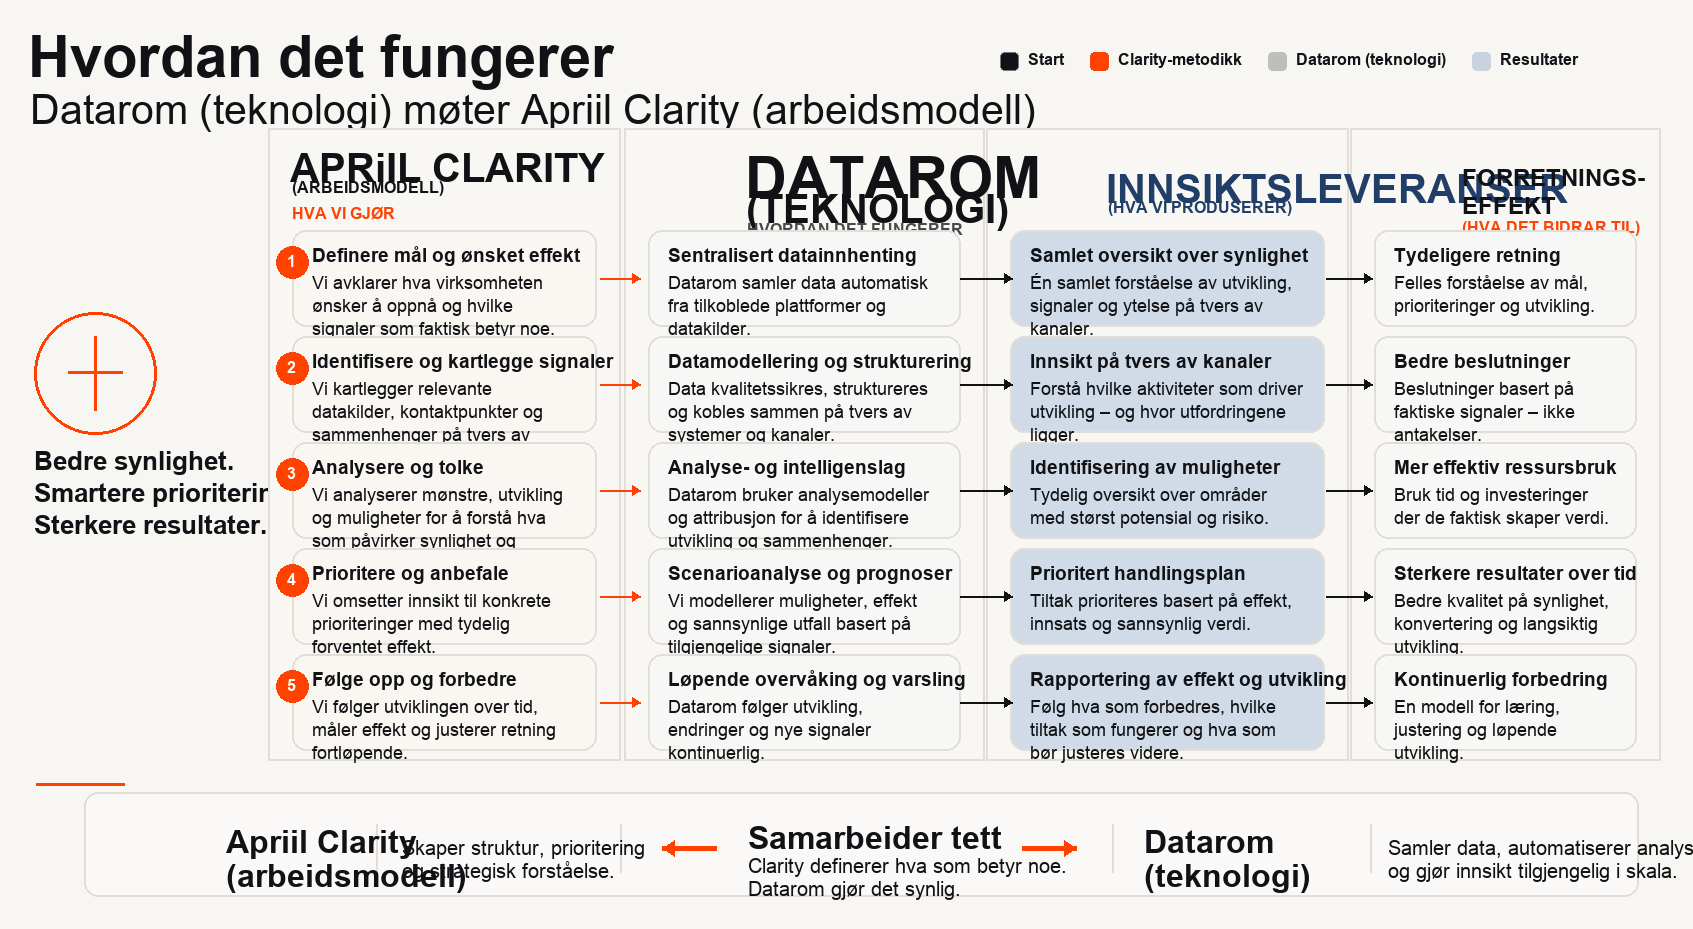
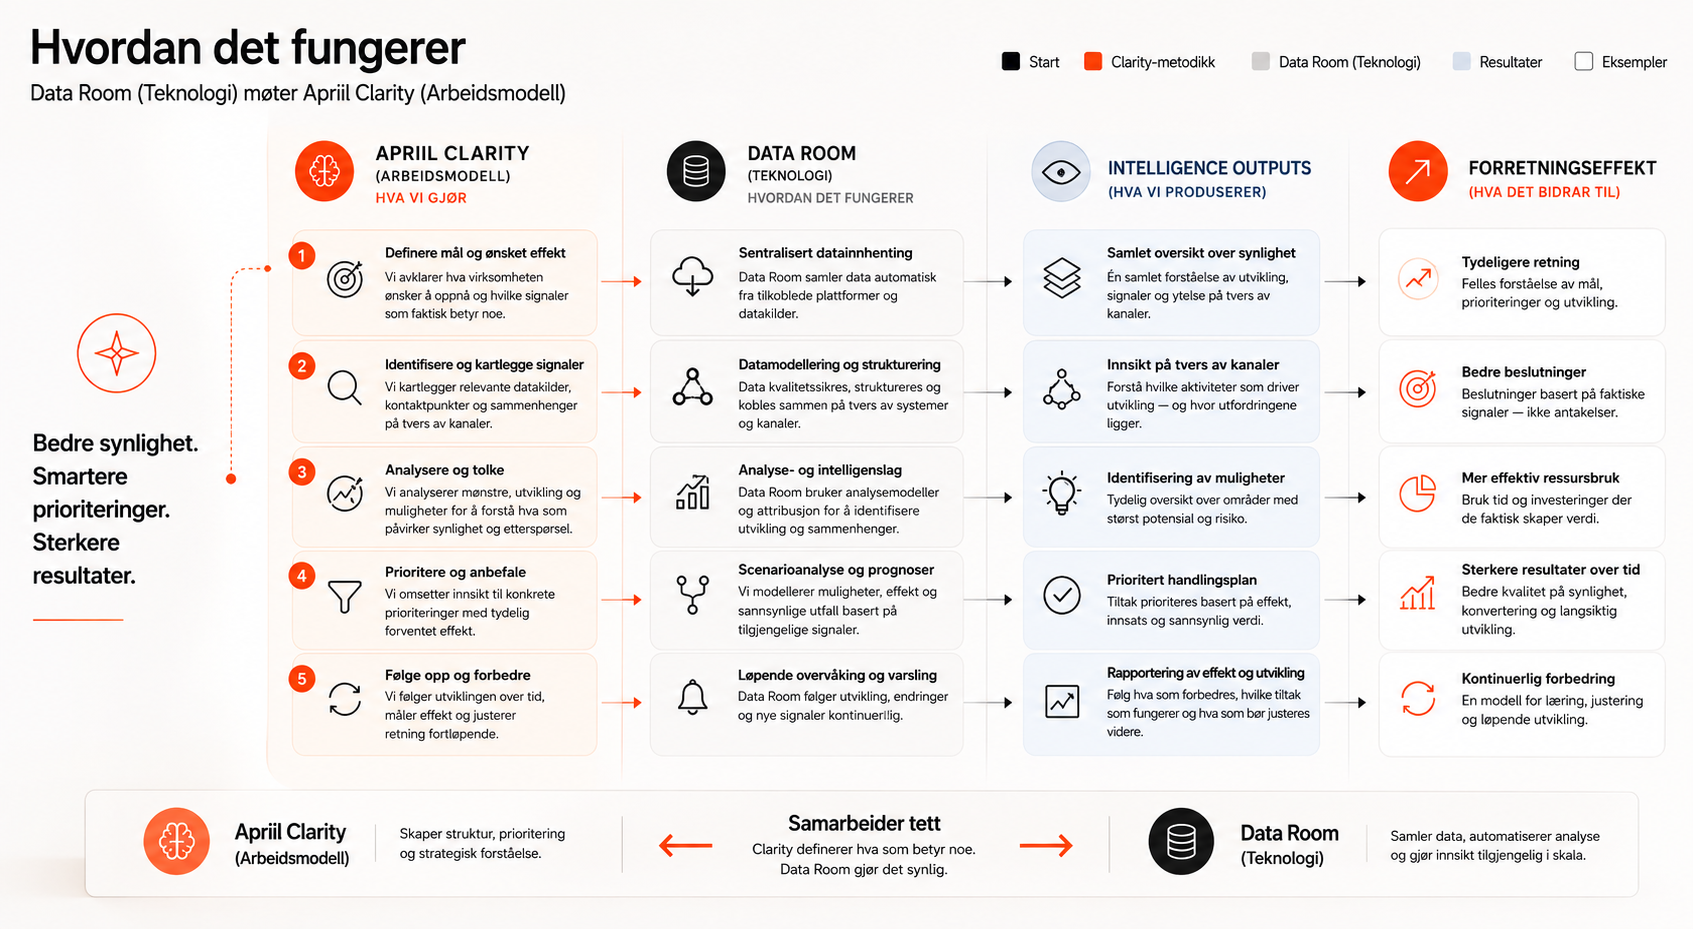
Use the provided Clarity model image in lightbox

Changed region(s): [[0.0, 0.0312, 1.0, 0.9677], [0.0307, 0.8428, 0.645, 0.9677], [0.6143, 0.0312, 0.9829, 0.0936]]

diff --git a/components/global-page-chrome.tsx b/components/global-page-chrome.tsx
@@ -102,9 +102,6 @@ function ClarityLightbox({
             alt="Clarity-modell"
             className="h-full w-full object-contain"
             loading="eager"
-            onError={(event) => {
-              event.currentTarget.src = "/clarity-fra-april.png";
-            }}
           />
         </div>
       </div>
